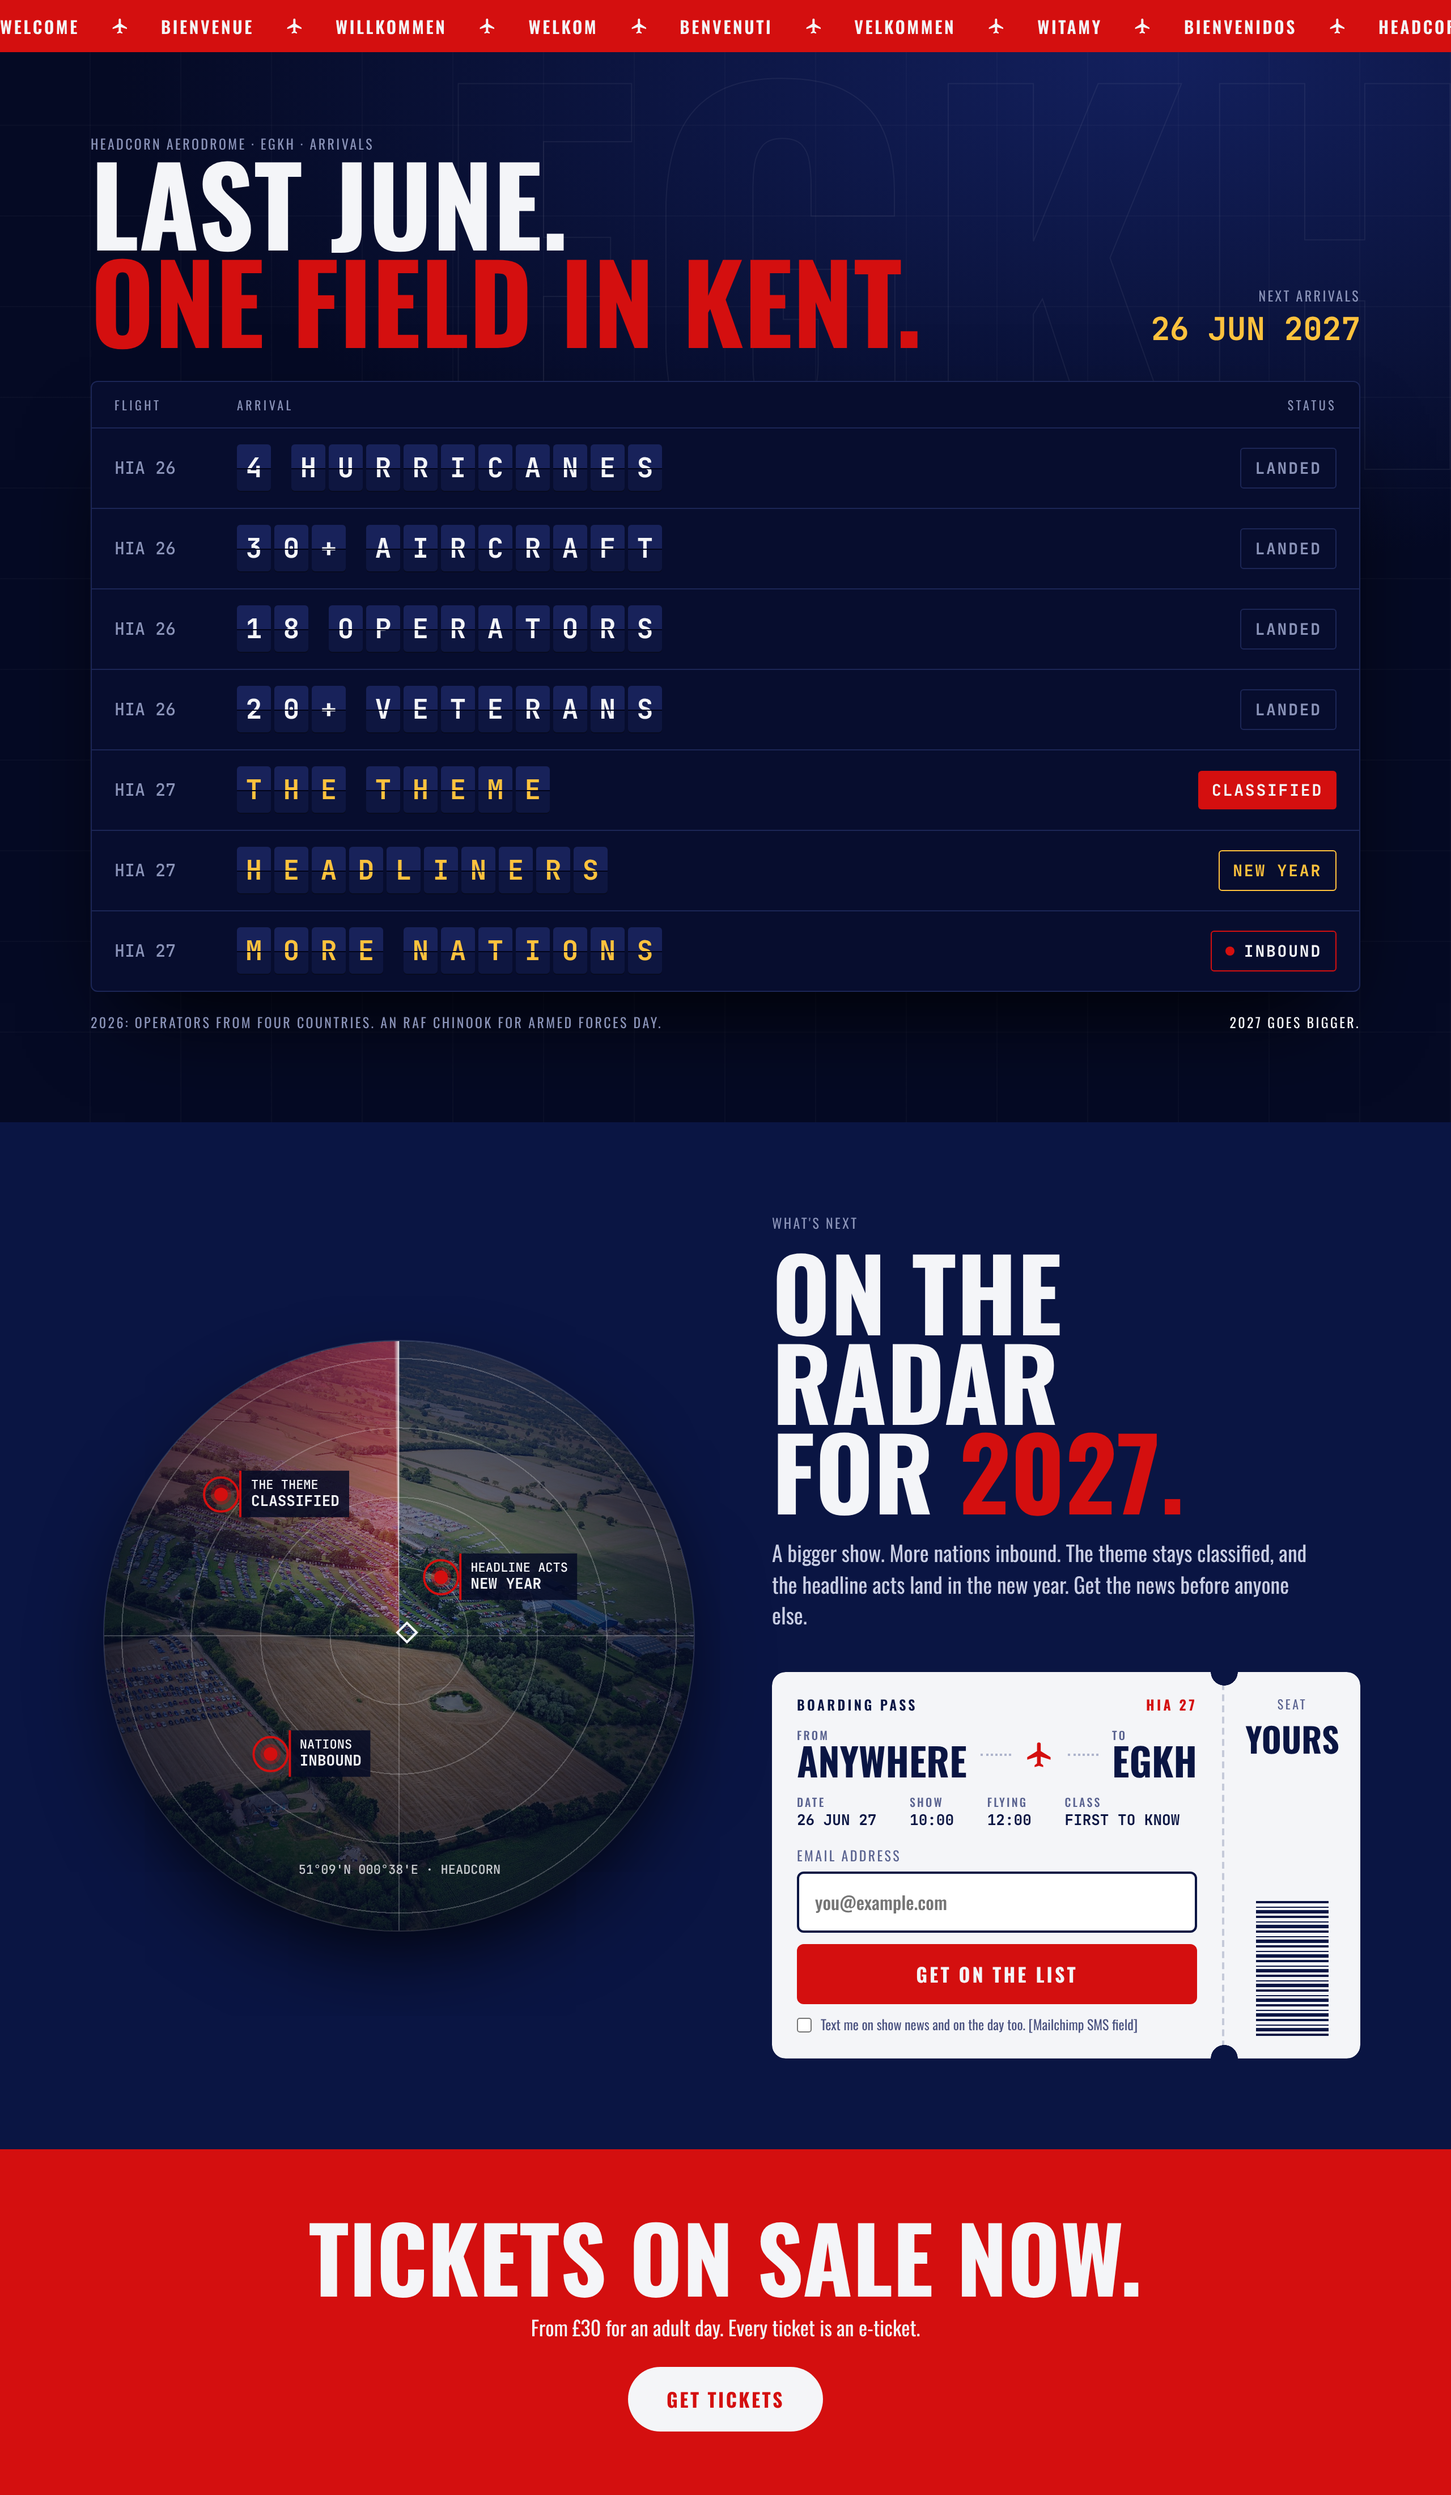
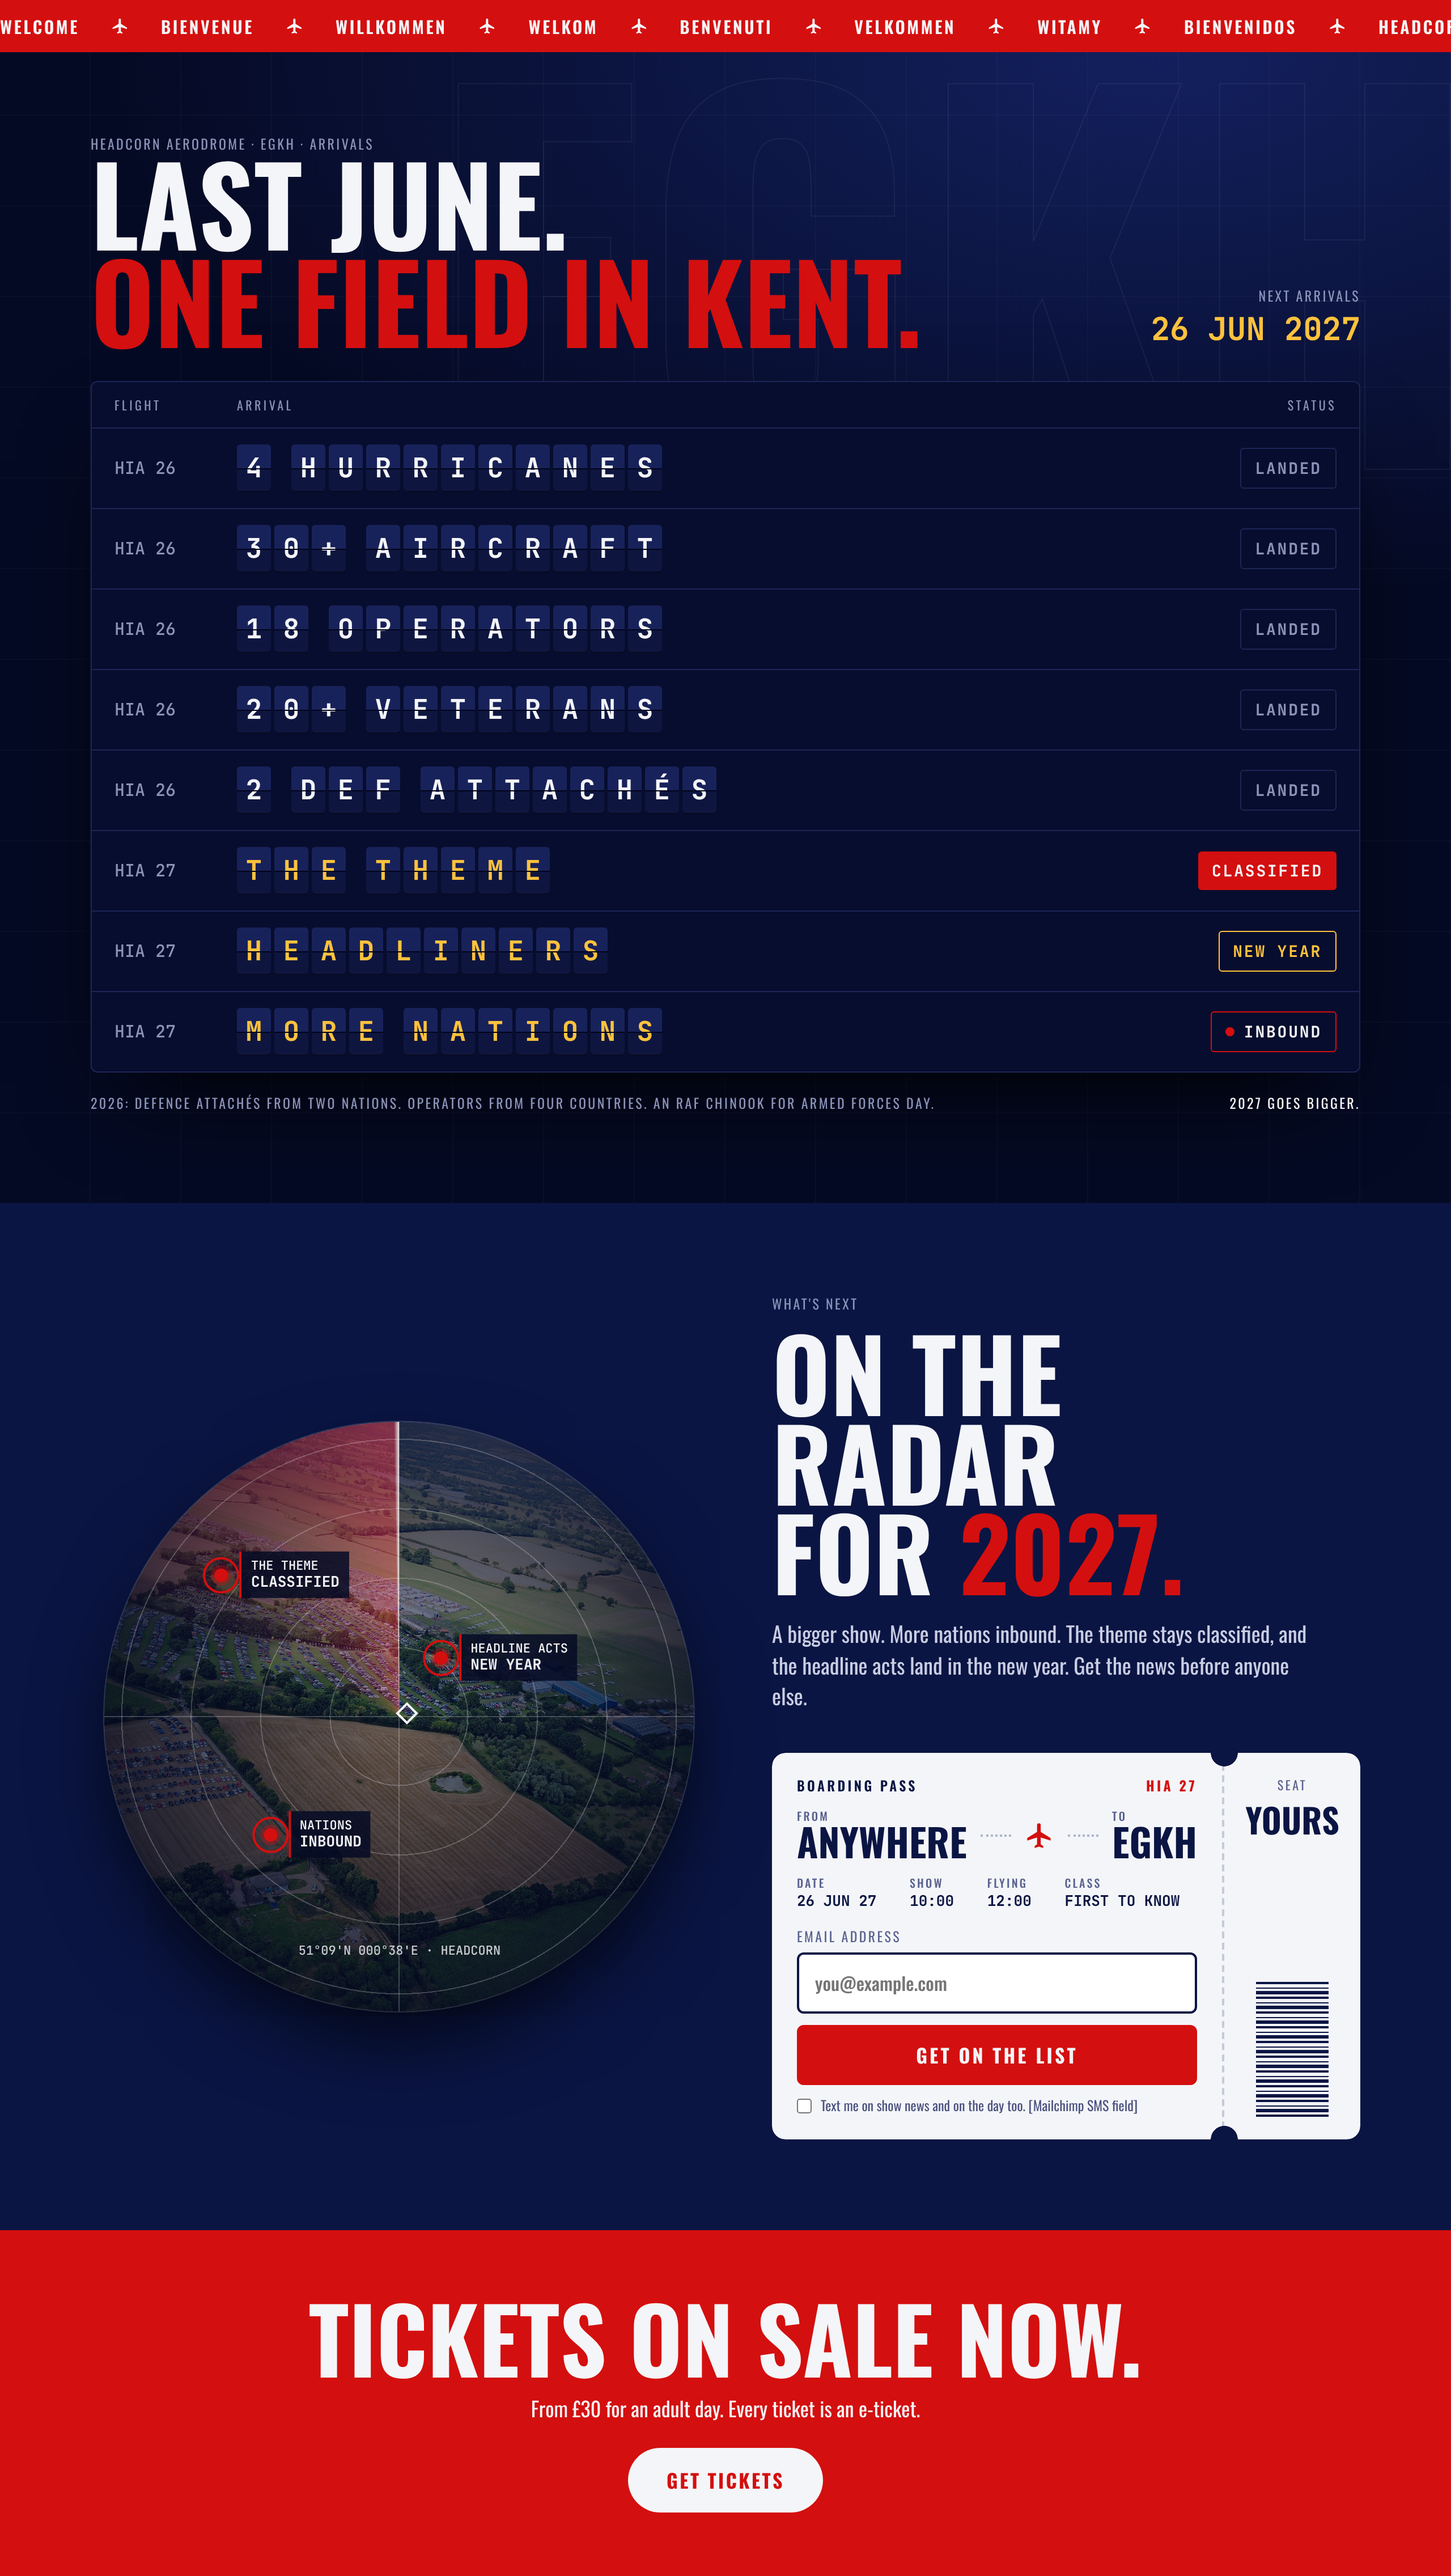
Add 2026 defence attachés to the arrivals board and site facts
Claude-Session: https://claude.ai/code/session_01RYv22kBDRZPB5vTuR4e7go

diff --git a/website/mockups/international.html b/website/mockups/international.html
@@ -160,12 +160,13 @@
       <div class="row" role="row"><div class="flight">HIA 26</div><div class="flaps" data-text="30+ AIRCRAFT"></div><div class="status landed">LANDED</div></div>
       <div class="row" role="row"><div class="flight">HIA 26</div><div class="flaps" data-text="18 OPERATORS"></div><div class="status landed">LANDED</div></div>
       <div class="row" role="row"><div class="flight">HIA 26</div><div class="flaps" data-text="20+ VETERANS"></div><div class="status landed">LANDED</div></div>
+      <div class="row" role="row"><div class="flight">HIA 26</div><div class="flaps" data-text="2 DEF ATTACHÉS"></div><div class="status landed">LANDED</div></div>
       <div class="row y27" role="row"><div class="flight">HIA 27</div><div class="flaps" data-text="THE THEME"></div><div class="status classified">CLASSIFIED</div></div>
       <div class="row y27" role="row"><div class="flight">HIA 27</div><div class="flaps" data-text="HEADLINERS"></div><div class="status newyear">NEW YEAR</div></div>
       <div class="row y27" role="row"><div class="flight">HIA 27</div><div class="flaps" data-text="MORE NATIONS"></div><div class="status inbound"><i></i>INBOUND</div></div>
     </div>
     <div class="board-foot">
-      <span class="cap">2026: operators from four countries. An RAF Chinook for Armed Forces Day.</span>
+      <span class="cap">2026: defence attachés from two nations. Operators from four countries. An RAF Chinook for Armed Forces Day.</span>
       <span class="cap" style="color:var(--white)">2027 goes bigger.</span>
     </div>
   </div>
@@ -231,7 +232,7 @@
   document.getElementById('ticker').innerHTML = half + half;
 
   // Split-flap: each tile spins through characters, then settles. Runs once when the board scrolls into view.
-  const CH = 'ABCDEFGHIJKLMNOPQRSTUVWXYZ0123456789+';
+  const CH = 'ABCDEFGHIJKLMNOPQRSTUVWXYZ0123456789+';  // settles on the real character, accents included
   const isStatic = location.search.includes('static');
   document.querySelectorAll('.flaps').forEach(el => {
     [...el.dataset.text].forEach(c => {

diff --git a/website/astra-prompt.md b/website/astra-prompt.md
@@ -64,7 +64,7 @@ FACTS. Use these exactly. Never invent aircraft, acts, prices, quotes, reviews o
   - [CONFIRM family and weekend prices].
   - Carer tickets are at the child rate, for one carer per disabled visitor.
 - Every ticket is an e-ticket, issued instantly. Advance tickets only. There are no sales on the gate.
-- The 2026 show had 4 Hurricanes, 30+ aircraft from 18 operators across four countries, 20+ WWII veterans, and an RAF Chinook for Armed Forces Day.
+- The 2026 show had 4 Hurricanes, 30+ aircraft from 18 operators across four countries, 20+ WWII veterans, defence attachés from two nations, and an RAF Chinook for Armed Forces Day. More nations' defence attachés are expected in 2027. [CONFIRM which two nations, and whether they can be named.]
 - 2027: a bigger show. The theme is still secret. Headline acts are announced in the new year.
 - History: In 1943-44 the airfield was Lashenden Advanced Landing Ground. It was home to the US 354th Fighter Group, the first group to fly the P-51B Mustang in combat, on long-range escort missions into Germany. [CONFIRM the "first group" wording against the heritage article before publishing.]
 - Rules: Photography is welcome. Drones are banned.
@@ -138,7 +138,7 @@ Add this as body text on the home page, under the hero and stats. It's real text
 > **A WW2 warbird airshow in the heart of Kent.**
 > The Headcorn International Airshow takes place on 26 and 27 June 2027 at Headcorn Aerodrome, between Maidstone and Ashford. Historic aircraft fly where they flew from in 1944, when this field was Lashenden, home of the 354th Fighter Group and its P-51 Mustangs.
 >
-> In 2026 the show brought 4 Hurricanes, more than 30 aircraft from 18 operators across four countries, and over 20 Second World War veterans to one field in Kent. 2027 goes bigger. The theme is still under wraps, and the headline acts are announced in the new year.
+> In 2026 the show brought 4 Hurricanes, more than 30 aircraft from 18 operators across four countries, over 20 Second World War veterans, and defence attachés from two nations to one field in Kent. 2027 goes bigger. The theme is still under wraps, and the headline acts are announced in the new year.
 >
 > Flying displays start around noon. On the ground there are wartime vehicles, re-enactors, international car displays, food and trade stands, helicopter flights and jeep rides. Children aged 5 and under go free. Every ticket is an e-ticket, sold in advance only.
 
@@ -500,12 +500,13 @@ See `website/mockups/international-mobile.png` and `international-desktop.png` f
        - HIA 26 · 30+ AIRCRAFT · LANDED
        - HIA 26 · 18 OPERATORS · LANDED
        - HIA 26 · 20+ VETERANS · LANDED
+       - HIA 26 · 2 DEF ATTACHÉS · LANDED
        - HIA 27 · THE THEME · CLASSIFIED (solid red)
        - HIA 27 · HEADLINERS · NEW YEAR (amber outline)
        - HIA 27 · MORE NATIONS · INBOUND (red outline with a blinking red dot)
      - The 2027 rows have amber letters.
    - **On mobile:** hide the header row, put FLIGHT and STATUS on one line, and put the tiles full width beneath.
-   - **Line under the board:** "2026: operators from four countries. An RAF Chinook for Armed Forces Day." On the right: "2027 GOES BIGGER."
+   - **Line under the board:** "2026: defence attachés from two nations. Operators from four countries. An RAF Chinook for Armed Forces Day." On the right: "2027 GOES BIGGER."
    - Make the board a CMS collection ("Arrivals", with the fields flight, text, status and style). Then each announcement in the new year is just a change of status from CLASSIFIED to the act's name.
 3. **Radar** (replaces "WHAT'S NEXT").
    - Navy (#0A1543) section in two columns, stacked on mobile.
